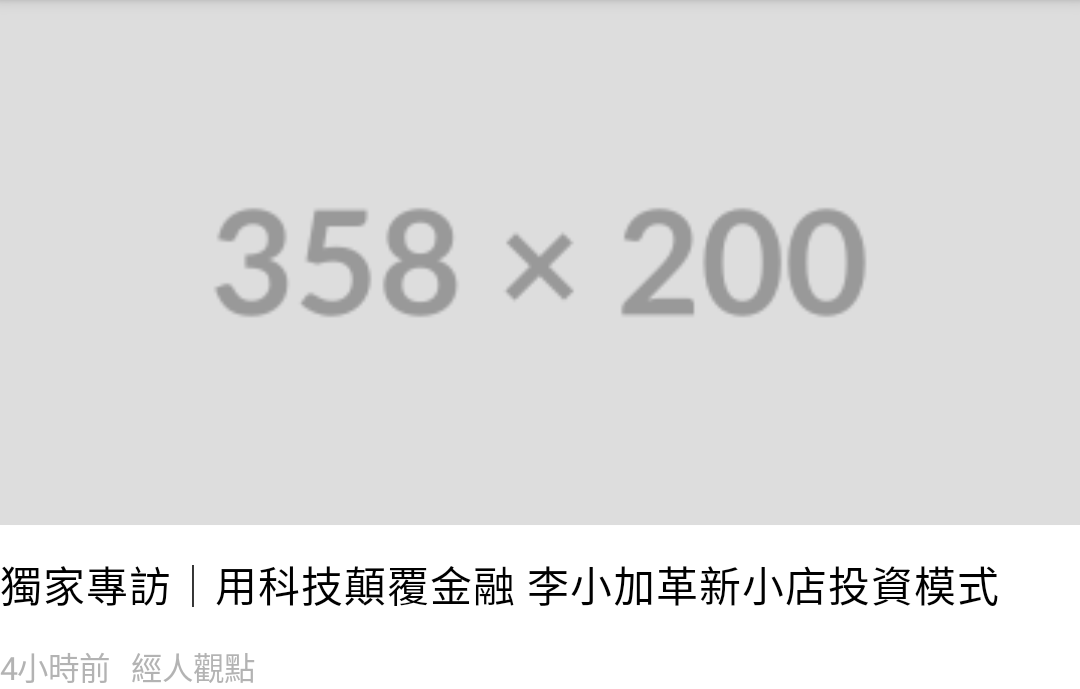
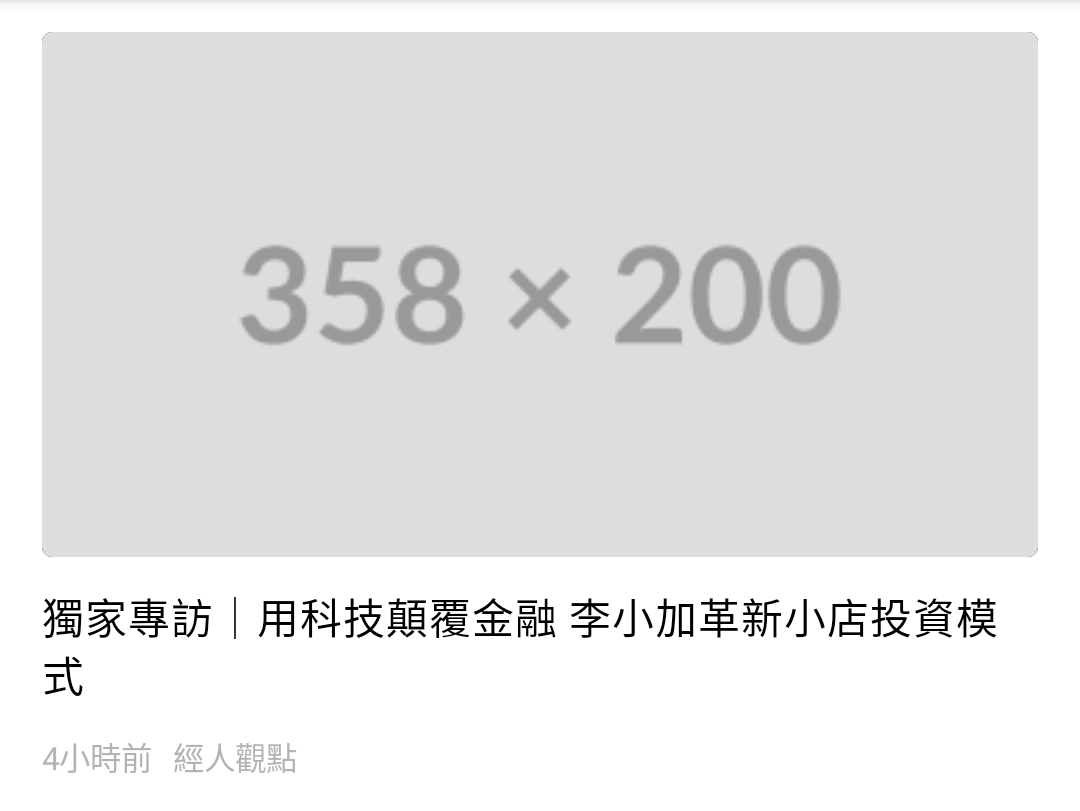
feat: card view style

diff --git a/mobile-design/src/main/java/com/nmg/mobile/design/widgets/card/VideoCardView.kt b/mobile-design/src/main/java/com/nmg/mobile/design/widgets/card/VideoCardView.kt
@@ -1,16 +1,28 @@
 package com.nmg.mobile.design.widgets.card
 
+import androidx.compose.foundation.background
+import androidx.compose.foundation.layout.Box
+import androidx.compose.foundation.layout.padding
 import androidx.compose.runtime.Composable
+import androidx.compose.ui.Modifier
+import androidx.compose.ui.graphics.Color
 import androidx.compose.ui.tooling.preview.Preview
+import androidx.compose.ui.unit.dp
 import com.nmg.mobile.design.theme.NMGTheme
 
 @Composable
 public fun <Data : CardDataAbstract> VideoCardView(data: Data) {
-    TopImageCardView(data.imageURL, overlay = {
-        CardViewTimeCodeOverlay(data.timecode, it)
-    }) {
-        CardViewHeadline(data)
-        CardViewFootnote(data)
+    Box(
+        modifier = Modifier
+            .background(Color.White)
+            .padding(horizontal = 16.dp, vertical = 12.dp)
+    ) {
+        TopImageCardView(data.imageURL, overlay = {
+            CardViewTimeCodeOverlay(data.timecode, it)
+        }) {
+            CardViewHeadline(data)
+            CardViewFootnote(data)
+        }
     }
 }
 
@@ -21,7 +33,7 @@ fun VideoCardView_Preview() {
         VideoCardView(
             data = CardData(
                 imageURL = "https://placehold.co/358x200/png",
-                headline = "獨家專訪｜用科技顛覆金融 李小加革新小店投資模式",
+                headline = "獨家專訪｜用科技顛覆金融 李小加革新小店投資模式獨家專訪｜用科技顛覆金融 李小加革新小店投資模式獨家專訪｜用科技顛覆金融 李小加革新小店投資模式",
                 leadingFootnote = "4小時前",
                 secondFootnote = "經人觀點",
                 _timecode = "22:22"

diff --git a/mobile-design/src/main/java/com/nmg/mobile/design/widgets/card/TopImageCardView.kt b/mobile-design/src/main/java/com/nmg/mobile/design/widgets/card/TopImageCardView.kt
@@ -5,6 +5,7 @@ import androidx.compose.foundation.layout.*
 import androidx.compose.foundation.shape.RoundedCornerShape
 import androidx.compose.runtime.Composable
 import androidx.compose.ui.Modifier
+import androidx.compose.ui.draw.clip
 import androidx.compose.ui.graphics.Color
 import androidx.compose.ui.layout.ContentScale
 import androidx.compose.ui.platform.LocalContext
@@ -24,7 +25,6 @@ public fun TopImageCardView(
 ) {
     val shape = RoundedCornerShape(NMGTheme.customSystem.roudnCorner)
     Column(
-        modifier = Modifier.background(color = Color.White),
         verticalArrangement = Arrangement.spacedBy(NMGTheme.customSystem.padding)
     ) {
         Box {
@@ -38,6 +38,7 @@ public fun TopImageCardView(
                 contentScale = ContentScale.FillWidth,
                 modifier = Modifier
                     .background(color = Color.Black, shape = shape)
+                    .clip(shape)
                     .fillMaxWidth()
                     .heightIn(
                         NMGTheme.customSystem.cardMinHeight,

diff --git a/mobile-design/src/main/java/com/nmg/mobile/design/widgets/card/CardView.kt b/mobile-design/src/main/java/com/nmg/mobile/design/widgets/card/CardView.kt
@@ -1,15 +1,25 @@
 package com.nmg.mobile.design.widgets.card
 
+import androidx.compose.foundation.background
 import androidx.compose.foundation.layout.*
 import androidx.compose.runtime.Composable
+import androidx.compose.ui.Modifier
+import androidx.compose.ui.graphics.Color
 import androidx.compose.ui.tooling.preview.Preview
+import androidx.compose.ui.unit.dp
 import com.nmg.mobile.design.theme.NMGTheme
 
 @Composable
 public fun <Data : CardDataAbstract> CardView(data: Data) {
-    TopImageCardView(data.imageURL) {
-        CardViewHeadline(data)
-        CardViewFootnote(data)
+    Box(
+        modifier = Modifier
+            .background(Color.White)
+            .padding(horizontal = 16.dp, vertical = 12.dp)
+    ) {
+        TopImageCardView(data.imageURL) {
+            CardViewHeadline(data)
+            CardViewFootnote(data)
+        }
     }
 }
 

diff --git a/app/src/main/java/com/nmg/mobile/design/gallery/demo/CardDemo.kt b/app/src/main/java/com/nmg/mobile/design/gallery/demo/CardDemo.kt
@@ -21,12 +21,11 @@ import com.nmg.mobile.design.widgets.reel.ReelCardOverlay
 fun CardDemo() {
     Column {
         LazyColumn(
-            modifier = Modifier.padding(horizontal = NMGTheme.customSystem.padding),
             verticalArrangement = Arrangement.spacedBy(NMGTheme.customSystem.spacing)
         ) {
             item {
                 Column(
-                    modifier = Modifier.padding(vertical = NMGTheme.customSystem.padding),
+                    modifier = Modifier.padding(horizontal = NMGTheme.customSystem.padding, vertical = NMGTheme.customSystem.padding),
                     verticalArrangement = Arrangement.spacedBy(NMGTheme.customSystem.padding)
                 ) {
                     ChipGroup(

diff --git a/mobile-design/src/main/java/com/nmg/mobile/design/widgets/card/CardViewHeadline.kt b/mobile-design/src/main/java/com/nmg/mobile/design/widgets/card/CardViewHeadline.kt
@@ -2,6 +2,7 @@ package com.nmg.mobile.design.widgets.card
 
 import androidx.compose.material.Text
 import androidx.compose.runtime.Composable
+import androidx.compose.ui.text.style.TextOverflow
 import com.nmg.mobile.design.theme.NMGTheme
 
 @Composable
@@ -10,5 +11,6 @@ public fun <Data : CardDataAbstract> CardViewHeadline(data: Data) {
         text = data.headline,
         maxLines = 2,
         style = NMGTheme.typography.headline,
+        overflow = TextOverflow.Ellipsis
     )
 }
